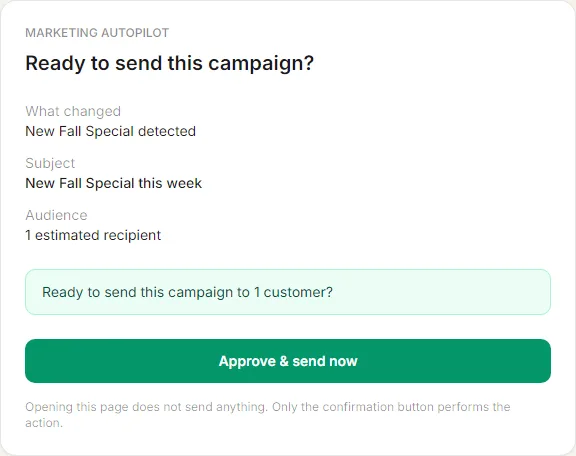
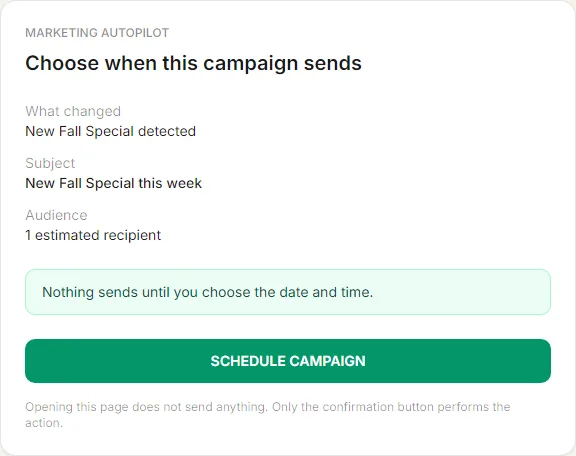
Replace the customer footer with Powered by SendFable and keep scheduling in the customer's voice.
The promotional line now says we turn their content into emails ready to send, and public Autopilot proof shows their look and a schedule instead of an immediate send.

Changed region(s): [[0.0625, 0.614, 0.6562, 0.6754], [0.0312, 0.1228, 0.625, 0.1842], [0.3438, 0.7675, 0.6562, 0.8289]]

diff --git a/src/app/(marketing)/automated-email-marketing/page.tsx b/src/app/(marketing)/automated-email-marketing/page.tsx
@@ -158,27 +158,27 @@ export default function AutomatedEmailMarketingPage() {
 
       <section className="mt-16">
         <h2 className="text-2xl font-semibold text-ink">How it works</h2>
+        <p className="mt-3 text-sm text-ink/70">
+          The email looks like your business. SendFable is the engine underneath, and it appears
+          at the bottom only when your plan requires it.
+        </p>
         <ol className="mt-6 space-y-5">
           {[
             {
-              t: "Collect",
-              b: "SendFable hosted or embedded forms collect email (optional name/phone and separate SMS consent).",
-            },
-            {
               t: "Watch",
-              b: "Point Autopilot at specials, events, products, or news. We check on a simple schedule.",
+              b: "SendFable notices meaningful content changes on the page where you already post.",
             },
             {
-              t: "Draft",
-              b: "Meaningful changes create a real SendFable campaign draft from an existing template — not a plain text dump.",
+              t: "Create",
+              b: "That content becomes a campaign with your logo, your colors, your words, and an image only when it belongs to the update.",
             },
             {
-              t: "Approve",
-              b: "You get a preview email with Approve & Schedule, Edit, or Skip this campaign. You choose the date, time, and timezone. If you do nothing, nothing sends, and the draft stays waiting.",
+              t: "Review",
+              b: "You see the finished draft. Edit it, or skip this campaign.",
             },
             {
-              t: "Send",
-              b: "After you schedule it, the campaign sends at that time through the normal SendFable email pipeline.",
+              t: "Schedule",
+              b: "You choose the date and time. Nothing sends until you do. No reply means it waits.",
             },
           ].map((s, i) => (
             <li key={s.t} className="flex gap-4">
@@ -207,7 +207,7 @@ export default function AutomatedEmailMarketingPage() {
       </section>
 
       <section className="mt-16 rounded-xl border border-ink/10 bg-parchment/50 p-6">
-        <h2 className="text-xl font-semibold text-ink">Page changes → campaign ready → you approve</h2>
+        <h2 className="text-xl font-semibold text-ink">Your content, your look, then you schedule</h2>
         <p className="mt-2 text-sm text-ink/65">
           Competitors often offer complex automation builders. SendFable&apos;s differentiator is
           simpler: watch the page where you already post promotions, prepare the campaign, and wait
@@ -250,7 +250,7 @@ export default function AutomatedEmailMarketingPage() {
       <Faq items={FAQS} />
       <MarketingCta
         title="Automate your marketing without giving up control"
-        body="Start free. Point Autopilot at one page. Approve every send."
+        body="Start free. Point Autopilot at one page. Nothing sends until you schedule it."
         primaryLabel="Start free"
       />
     </div>

diff --git a/src/components/marketing/home/pricing-preview.tsx b/src/components/marketing/home/pricing-preview.tsx
@@ -14,11 +14,13 @@ import {
 } from "@/lib/plans";
 import { cn } from "@/lib/utils";
 import type { Plan } from "@prisma/client";
+import { autopilotMaxDraftsPerMonth } from "@/lib/autopilot/plans";
+import { AUTOPILOT_CREATION_PACKS } from "@/lib/autopilot/commercial";
 
 function planBlurb(plan: Plan): string[] {
   const p = PLANS[plan];
   const lines = [upToContacts(plan), upToEmails(plan)];
-  if (p.badge) lines.push("Sent with SendFable badge");
+  if (p.badge) lines.push("Powered by SendFable");
   else lines.push("No platform badge");
   if (p.customDomains) lines.push("Custom domain authentication");
   // Team seats exist in code for Pro / Pro Plus but are not advertised publicly
@@ -28,6 +30,8 @@ function planBlurb(plan: Plan): string[] {
 
 /** Public signup CTA — product is generally available. */
 const PRICING_CTA_HREF = "/signup";
+
+const AUTOPILOT_PRICE_NOTE = `Free keeps manual email. Autopilot is optional: 3 months, 1 creation a month, no rollover. Then Starter ${autopilotMaxDraftsPerMonth("STARTER")}, Growth ${autopilotMaxDraftsPerMonth("GROWTH")}, Pro ${autopilotMaxDraftsPerMonth("PRO")}, Pro Plus ${autopilotMaxDraftsPerMonth("PRO_PLUS")} a month. Extra packs: ${AUTOPILOT_CREATION_PACKS.map((p) => `${p.credits} for $${p.cents / 100}`).join(", ")}. Manual campaigns do not use those credits. Nothing sends until you schedule it.`;
 
 export function PricingPreview({
   embedded = false,
@@ -77,9 +81,7 @@ export function PricingPreview({
             Clear pricing. Start free.
           </h2>
           <p className="mt-3 text-charcoal/75">
-            Limits you can read. Upgrade when your list grows — no mystery add-ons on this page.
-            Try Marketing Autopilot free for 3 months: 1 automatically created campaign per month.
-            Paid plans include a monthly creation allowance. Nothing sends until you schedule it.
+            Limits you can read. Upgrade when your list grows. {AUTOPILOT_PRICE_NOTE}
           </p>
           <div className="mt-8 flex flex-col items-center gap-2">
             {toggle}
@@ -91,8 +93,7 @@ export function PricingPreview({
       {embedded && (
         <div className="mb-8 flex flex-col items-center gap-2">
           <p className="max-w-2xl text-center text-sm text-charcoal/75">
-            Try Marketing Autopilot free for 3 months: 1 automatically created campaign per month.
-            Paid plans include a monthly creation allowance. Nothing sends until you schedule it.
+            {AUTOPILOT_PRICE_NOTE}
           </p>
           {toggle}
           {annual && <p className="text-sm text-teal">{ANNUAL_SAVINGS_LABEL}</p>}

diff --git a/src/data/competitors/catalog.ts b/src/data/competitors/catalog.ts
@@ -58,7 +58,7 @@ export const COMPETITORS: Record<string, CompetitorRecord> = {
       "Simpler small-business workflow",
       "Transparent lower list pricing at many practical tiers",
       "Managed SES delivery without suite lock-in",
-      "Marketing Autopilot: watch a promotions page → draft a campaign → you approve before send (no complex journey builder required)",
+      "Marketing Autopilot: a page change becomes a campaign in your look, and you choose when it sends",
     ],
     competitorStronger: [
       "Integration marketplace",
@@ -66,7 +66,7 @@ export const COMPETITORS: Record<string, CompetitorRecord> = {
       "Ecommerce and agency familiarity",
     ],
     shortAnswer:
-      "Choose SendFable when you want simple campaigns, clear pricing, and website-to-campaign drafts you approve. Choose Mailchimp when you need a broad marketing suite, deep automations, or a large integration ecosystem.",
+      "Choose SendFable when you want Email, Text, or Both, clear pricing, forms, and website-to-campaign drafts you schedule. Choose Mailchimp when you need a broad marketing suite, deep automations, or a large integration ecosystem.",
     whoSendfableIsFor:
       "Local and small businesses that need contacts, polished campaigns, forms, and managed delivery without buying a CRM/ecommerce suite.",
     whoCompetitorIsFor:
@@ -170,7 +170,7 @@ export const COMPETITORS: Record<string, CompetitorRecord> = {
       "Managed SES positioning",
       "Very clear small-business Free→Pro Plus ladder",
       "Any-email signup focus",
-      "Marketing Autopilot: page changes → campaign draft → owner approval (simpler than journey builders)",
+      "Marketing Autopilot: page changes become a campaign in your look, and you choose when it sends",
     ],
     competitorStronger: ["Established builder polish", "Automation depth for the price", "Larger existing user community"],
     shortAnswer:
@@ -221,7 +221,7 @@ export const COMPETITORS: Record<string, CompetitorRecord> = {
       "Predictable contact-tier pricing",
       "Simpler small-business UX",
       "Campaign-first focus",
-      "Marketing Autopilot watches your promotions page and prepares campaigns for approval",
+      "Marketing Autopilot watches your page, drafts in your look, and waits until you schedule",
     ],
     competitorStronger: ["Volume-based pricing", "SMS + multi-channel in-product", "Transactional email heritage"],
     shortAnswer:

diff --git a/src/app/(marketing)/features/page.tsx b/src/app/(marketing)/features/page.tsx
@@ -67,7 +67,13 @@ export default function FeaturesPage() {
     {
       id: "website-campaign",
       title: "Website → Campaign",
-      body: "Meaningful page changes become draft emails with relevant copy. No busywork rewriting the same special twice.",
+      body: "A real change on your site becomes a draft in your voice. You do not rewrite the same special by hand.",
+      href: "/automated-email-marketing",
+    },
+    {
+      id: "brand-match",
+      title: "Your look, not ours",
+      body: "Autopilot uses your logo, colors, and images that belong to that update. The campaign should look like your business. SendFable stays at the bottom, and only when the plan requires it.",
       href: "/automated-email-marketing",
     },
     {
@@ -93,7 +99,7 @@ export default function FeaturesPage() {
     {
       id: "branding",
       title: "Free-plan branding",
-      body: `Free includes up to ${PLANS.FREE.contactCap.toLocaleString()} contacts and ${PLANS.FREE.emailsPerMonth.toLocaleString()} emails/month with a “Sent with SendFable” footer. Paid plans remove the badge.`,
+      body: `Free includes up to ${PLANS.FREE.contactCap.toLocaleString()} contacts and ${PLANS.FREE.emailsPerMonth.toLocaleString()} emails/month with a “Powered by SendFable” footer. Paid plans remove it.`,
       href: "/pricing",
     },
     ...(smsPublic
@@ -157,8 +163,7 @@ export default function FeaturesPage() {
         Email, text &amp; marketing automation features
       </h1>
       <p className="mt-4 max-w-2xl text-lg text-ink/70">
-        Everything you need to grow a permission-based audience and send campaigns that feel personal
-        — without suite sprawl.
+        Collect the audience. Create the message. Choose when it goes. The mail looks like your business.
       </p>
 
       <figure className="mt-10 overflow-hidden rounded-xl border border-ink/10 bg-parchment/40">
@@ -171,7 +176,7 @@ export default function FeaturesPage() {
           priority
         />
         <figcaption className="px-4 py-3 text-left text-sm text-ink/60">
-          Marketing Autopilot: website change → draft → your approval.{" "}
+          Marketing Autopilot: your content, your look, then you schedule it.{" "}
           <Link href="/automated-email-marketing" className="text-coral underline-offset-2 hover:underline">
             See how it works
           </Link>

diff --git a/src/app/cert/autopilot-ui/page.tsx b/src/app/cert/autopilot-ui/page.tsx
@@ -140,10 +140,10 @@ function EmailView() {
         </dl>
         <div className="mt-5 flex flex-wrap gap-2">
           <span className="rounded-md bg-emerald-600 px-3 py-2 text-xs font-semibold text-white">
-            Approve & send
+            Approve &amp; schedule
           </span>
           <span className="rounded-md bg-indigo-600 px-3 py-2 text-xs font-semibold text-white">
-            Edit before sending
+            Edit
           </span>
           <span className="rounded-md bg-slate-600 px-3 py-2 text-xs font-semibold text-white">
             Skip this campaign
@@ -159,7 +159,7 @@ function ConfirmView() {
   return (
     <Card>
       <p className="text-xs font-semibold uppercase text-black/45">Marketing Autopilot</p>
-      <h1 className="mt-2 text-xl font-semibold">Ready to send this campaign?</h1>
+      <h1 className="mt-2 text-xl font-semibold">Choose when this campaign sends</h1>
       <dl className="mt-6 space-y-3 text-sm">
         <div>
           <dt className="text-black/45">What changed</dt>
@@ -175,13 +175,13 @@ function ConfirmView() {
         </div>
       </dl>
       <p className="mt-6 rounded-lg border border-emerald-200 bg-emerald-50 px-4 py-3 text-sm text-emerald-900">
-        Ready to send this campaign to 1 customer?
+        Nothing sends until you choose the date and time.
       </p>
       <button
         type="button"
         className="mt-6 w-full rounded-lg bg-emerald-600 px-4 py-3 text-sm font-semibold text-white"
       >
-        Approve & send now
+        SCHEDULE CAMPAIGN
       </button>
       <p className="mt-4 text-xs text-black/45">
         Opening this page does not send anything. Only the confirmation button performs the action.

diff --git a/e2e/autopilot-cert.spec.ts b/e2e/autopilot-cert.spec.ts
@@ -39,8 +39,8 @@ test.describe("Marketing Autopilot certification surfaces", () => {
   test("feature page lifecycle copy", async ({ page }) => {
     await page.goto("/automated-email-marketing");
     await expect(page.getByRole("heading", { level: 1 })).toBeVisible();
-    for (const label of ["Collect", "Watch", "Draft", "Approve", "Send"]) {
-      await expect(page.getByText(label, { exact: true }).first()).toBeVisible();
+    for (const label of ["Watch", "Create", "Review", "Schedule"]) {
+      await expect(page.getByRole("heading", { name: label, exact: true })).toBeVisible();
     }
     await expect(page.getByText(/No approval\. No send/i).first()).toBeVisible();
     await expect(page.getByText(/No response/i).first()).toBeVisible();
@@ -50,9 +50,9 @@ test.describe("Marketing Autopilot certification surfaces", () => {
     await page.goto("/");
     const section = page.locator("#marketing-autopilot");
     await expect(section).toBeVisible();
-    await expect(section).toContainText(/YOUR WEBSITE CHANGES/i);
-    await expect(section).toContainText(/YOU APPROVE IT/i);
-    await expect(section).toContainText(/No approval\. No send/i);
+    await expect(section).toContainText(/Your website changes/i);
+    await expect(section).toContainText(/You choose when it sends/i);
+    await expect(section).toContainText(/Nothing sends until you schedule it/i);
     await expect(section.getByRole("link", { name: /Start free/i })).toBeVisible();
   });
 

diff --git a/src/lib/referral-badge.ts b/src/lib/referral-badge.ts
@@ -1,15 +1,14 @@
-/** Free-plan “Sent with SendFable” footer badge — conversion + attribution. */
+/** Promotional footer. The customer stays the brand; this line sits underneath. */
 
 export const REFERRAL_BADGE_URL =
   "https://sendfable.com/signup?utm_source=customer_email&utm_medium=footer_badge&utm_campaign=free_plan";
 
-/** Preferred free-plan badge copy — SendFable product, never iScream Studio. */
+/** Preferred footer — SendFable product, never iScream Studio. */
 export const REFERRAL_BADGE_LABEL_HTML =
-  'Sent with <strong style="color:#E4572E;">SendFable</strong><br/><span style="font-size:10px;color:#9ca3af;">Turn website updates into ready-to-send emails</span>';
+  'Powered by <strong style="color:#E4572E;">SendFable</strong><br/><span style="font-size:10px;color:#9ca3af;">We turn your content into emails ready to send.</span>';
 
-/** Alternate concise treatment (A/B via REFERRAL_BADGE_VARIANT). */
-export const REFERRAL_BADGE_LABEL_ALT_HTML =
-  'Sent with <strong style="color:#E4572E;">SendFable</strong><br/><span style="font-size:10px;color:#9ca3af;">Create emails like this free</span>';
+/** Same promise if a badge variant is set. Do not restore the older “Sent with” line. */
+export const REFERRAL_BADGE_LABEL_ALT_HTML = REFERRAL_BADGE_LABEL_HTML;
 
 export function referralBadgeLabelHtml(): string {
   const v = (process.env.REFERRAL_BADGE_VARIANT || "a").toLowerCase();

diff --git a/src/components/marketing/website-to-email-proof.tsx b/src/components/marketing/website-to-email-proof.tsx
@@ -17,7 +17,7 @@ function LatteArt() {
   );
 }
 
-const STEPS = ["Their website", "SendFable creates the email", "Owner approves", "Send"];
+const STEPS = ["Their content", "Their look", "You schedule"];
 
 export function WebsiteToEmailProof() {
   return (
@@ -72,7 +72,7 @@ export function WebsiteToEmailProof() {
           </div>
           <div className="p-4">
             <p className="text-[11px] font-semibold uppercase tracking-wider text-ink/45">
-              Example SendFable campaign
+              Harbor &amp; Rye
             </p>
             <div className="mt-3 overflow-hidden rounded-lg">
               <div className="aspect-[16/9] max-h-36">
@@ -84,8 +84,13 @@ export function WebsiteToEmailProof() {
             <p className="mt-2 text-sm text-ink/65">
               Harbor &amp; Rye&apos;s pumpkin latte is on for the weekend.
             </p>
-            <p className="mt-3 inline-block rounded-md bg-coral-solid px-3 py-1.5 text-xs font-semibold text-white">
+            <p className="mt-3 inline-block rounded-md bg-ink px-3 py-1.5 text-xs font-semibold text-white">
               See the special
+            </p>
+            <p className="mt-4 border-t border-ink/10 pt-3 text-[10px] leading-snug text-ink/40">
+              Powered by SendFable
+              <br />
+              We turn your content into emails ready to send.
             </p>
           </div>
         </div>

diff --git a/src/components/marketing/home/hero.tsx b/src/components/marketing/home/hero.tsx
@@ -19,11 +19,13 @@ export function Hero() {
             Email and text marketing without the marketing-software headache
           </h1>
           <p className="mt-5 max-w-prose text-lg leading-relaxed text-charcoal/80">
-            Free {PLANS.FREE.contactCap.toLocaleString()} contacts /{" "}
-            {PLANS.FREE.emailsPerMonth.toLocaleString()} emails · Starter ${PLANS.STARTER.monthlyPrice}
-            {smsPublic
-              ? " · Email, Text, or Both in one campaign."
-              : " · Clear email campaigns for small businesses."}
+            Email. Text. Or both. Free {PLANS.FREE.contactCap.toLocaleString()} contacts and{" "}
+            {PLANS.FREE.emailsPerMonth.toLocaleString()} emails a month. Starter $
+            {PLANS.STARTER.monthlyPrice}.
+          </p>
+          <p className="mt-3 max-w-prose text-base leading-relaxed text-charcoal/75">
+            Marketing Autopilot turns a website update into a campaign that looks like you. You
+            choose when it sends.
           </p>
           <div className="mt-8 flex flex-wrap items-center gap-3">
             <Button asChild size="lg" className="bg-coral-solid text-white hover:bg-coral-hover">

diff --git a/src/lib/__tests__/autopilot-commercial.test.ts b/src/lib/__tests__/autopilot-commercial.test.ts
@@ -280,10 +280,10 @@ describe("autopilot footer branding", () => {
     assert.match(html, new RegExp(drink.primaryColor, "i"));
     assert.match(html, /autumn-pour\.jpg/);
     assert.match(html, /See the pour/);
-    assert.match(html, /Sent with/);
-    assert.match(html, /Turn website updates into ready-to-send emails/);
+    assert.match(html, /Powered by/);
+    assert.match(html, /We turn your content into emails ready to send/);
     assert.match(html, /footer_badge/);
-    const badgeAt = html.toLowerCase().indexOf("sent with");
+    const badgeAt = html.toLowerCase().indexOf("powered by");
     const headlineAt = html.indexOf("Autumn pour");
     assert.ok(headlineAt >= 0 && badgeAt > headlineAt);
   });
@@ -375,6 +375,6 @@ describe("autopilot image relevance and manual email", () => {
       showSendfableBadge: false,
     });
     assert.match(html, /Manual Co/);
-    assert.doesNotMatch(html, /Turn website updates into ready-to-send emails/);
+    assert.doesNotMatch(html, /We turn your content into emails ready to send/);
   });
 });

diff --git a/src/components/marketing/home/marketing-autopilot.tsx b/src/components/marketing/home/marketing-autopilot.tsx
@@ -23,8 +23,8 @@ const SHOTS = [
   },
   {
     webp: "/product/autopilot-approval-confirm.webp",
-    alt: "Owner confirmation page before send",
-    label: "3 · You approve",
+    alt: "Owner chooses a date and time before anything sends",
+    label: "3 · You schedule",
   },
 ];
 
@@ -52,8 +52,9 @@ export function MarketingAutopilotHome() {
             You choose when it sends.
           </h2>
           <p className="mx-auto mt-4 max-w-2xl text-base text-charcoal/75 sm:text-lg">
-            Try Marketing Autopilot free for 3 months. That trial includes 1 automatically created
-            campaign per month. You still approve every campaign and choose when it sends.
+            Post a special, event, product, article, or update. SendFable uses that content to
+            create a campaign that looks like your business. Try it free for 3 months — 1 campaign
+            a month.
           </p>
           <p className="mt-4 text-sm font-bold uppercase tracking-wider text-coral">
             Nothing sends until you schedule it.

diff --git a/scripts/vps-branding-autopilot-acq-cert.ts b/scripts/vps-branding-autopilot-acq-cert.ts
@@ -312,14 +312,14 @@ async function main() {
     });
 
     const badgeOk = showBadge
-      ? /Sent with/.test(html) &&
+      ? /Powered by/.test(html) &&
         /SendFable/.test(html) &&
         !/Simple email marketing by iScream/i.test(html)
       : !/footer_badge/.test(html);
     const legalOk = /BoatingChicago is operated by iScream Studio INC/.test(html);
     const noPromoIScream =
       !/Simple email marketing by iScream/i.test(html) &&
-      !/Sent with[\s\S]*iScream/i.test(html);
+      !/Powered by[\s\S]*iScream/i.test(html);
     record("FREE_FOOTER", badgeOk ? "PASS" : "FAIL", showBadge ? "badge present" : "paid no badge");
     record("LEGAL_DISCLOSURE", legalOk ? "PASS" : "FAIL");
     record("ISCREAM_PROMINENT_REMOVED", noPromoIScream && badgeOk ? "PASS" : "FAIL");
